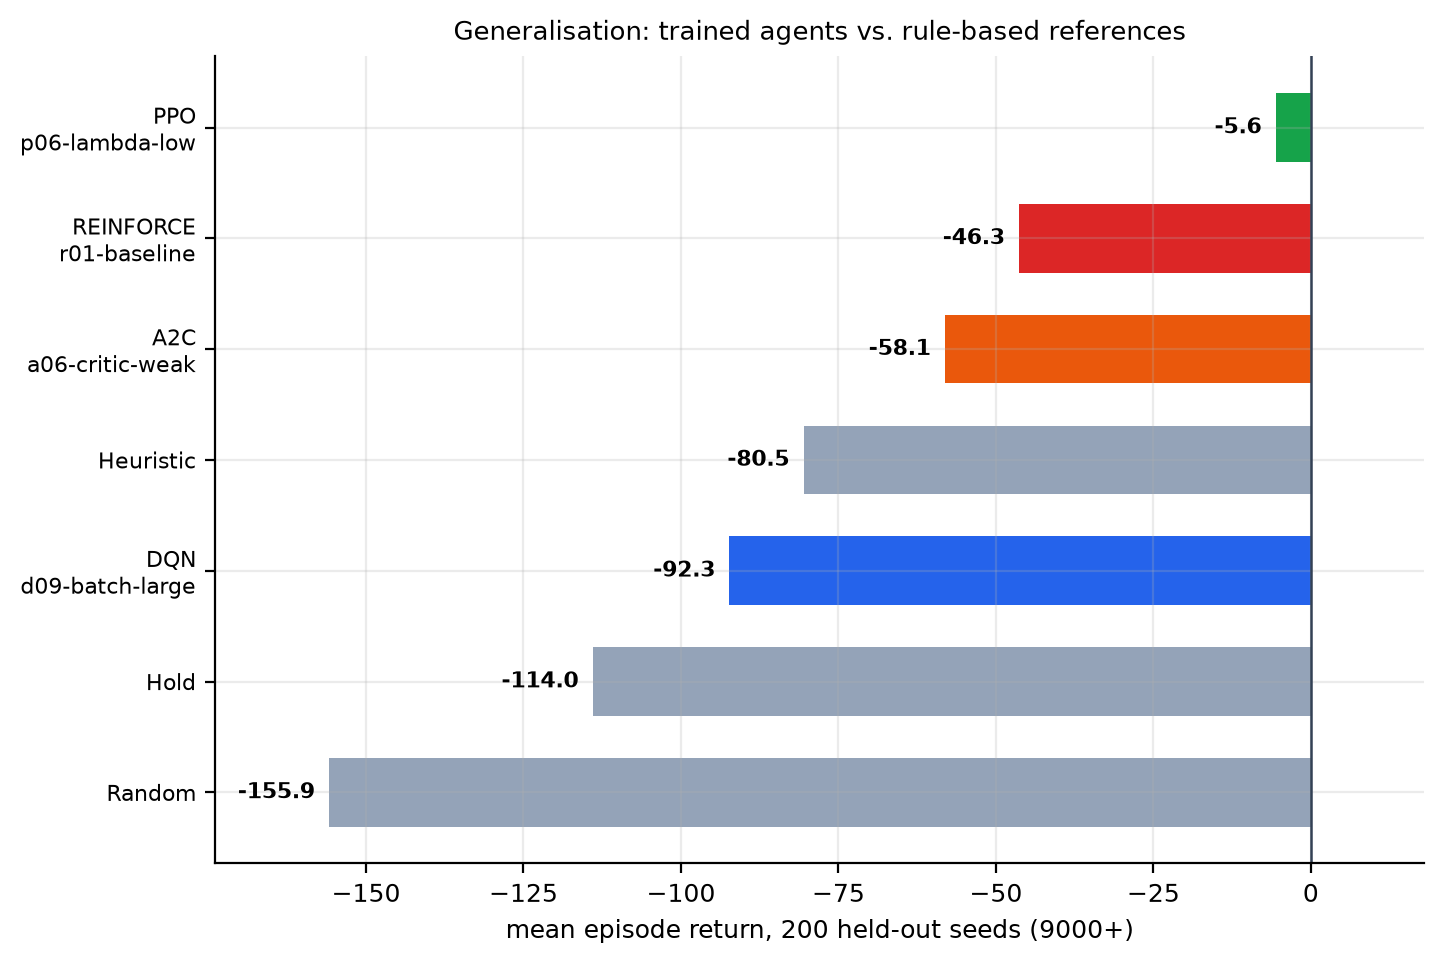
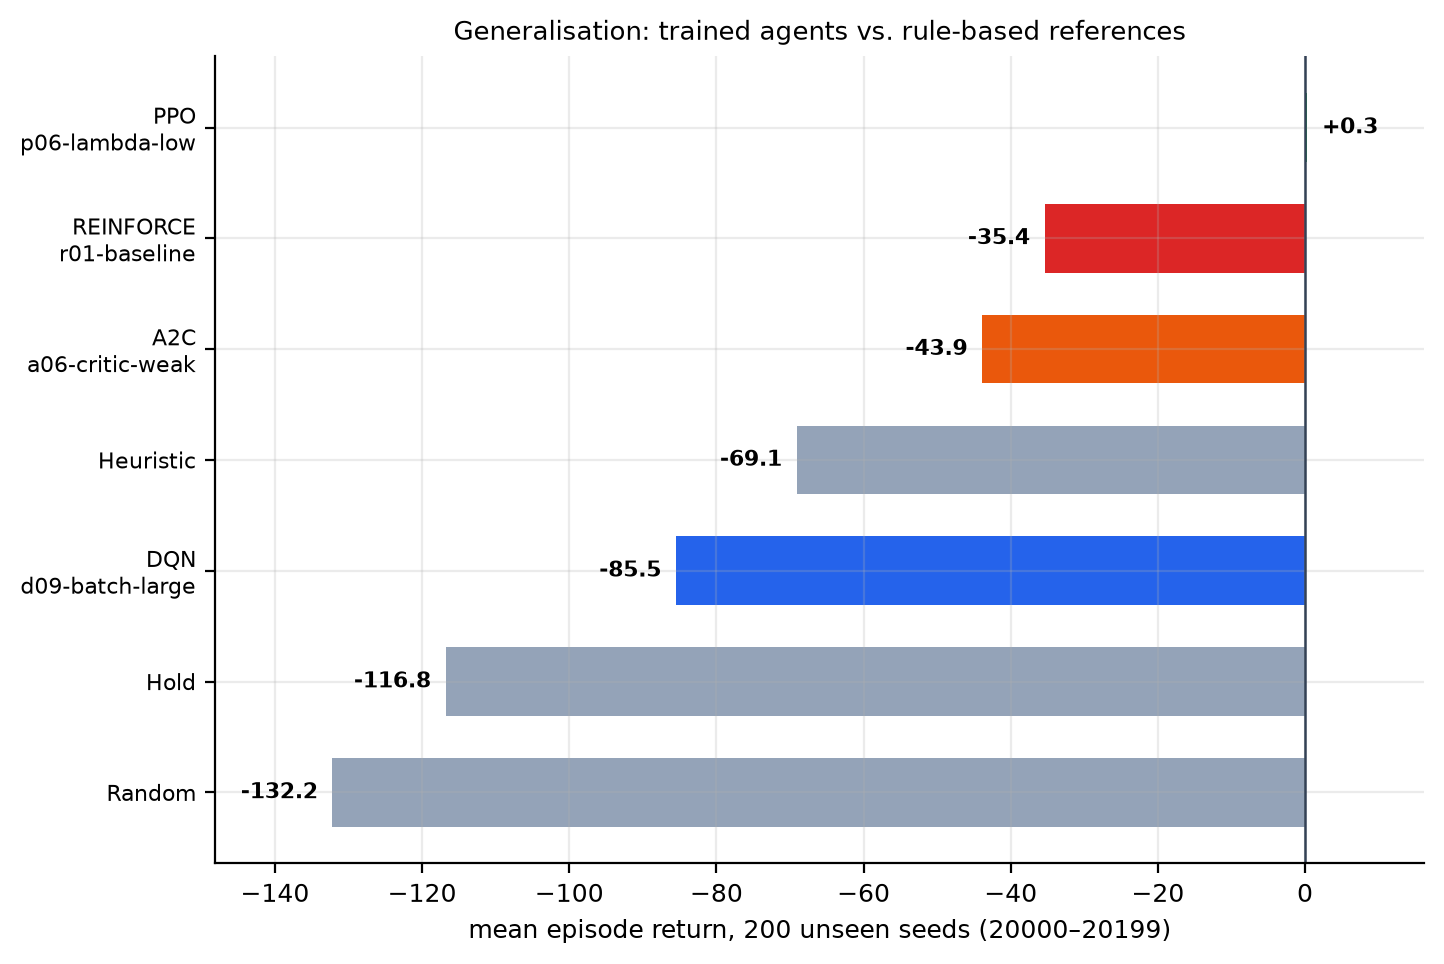
fix: evaluate on seeds disjoint from model selection

diff --git a/training/plots.py b/training/plots.py
@@ -305,9 +305,11 @@ def fig_generalisation() -> None:
     """
     final = load_final_evaluation()
     names, scores, colours, episodes = [], [], [], None
+    seed0 = None
 
     if final is not None and not final.empty:
         episodes = int(final["episodes"].iloc[0])
+        seed0 = int(final["seed_base"].iloc[0])
         tags = {a: best_tag(a) for a in ALGOS}
         for _, row in final.iterrows():
             key = str(row["policy"]).lower()
@@ -356,7 +358,8 @@ def fig_generalisation() -> None:
         )
 
     ax.axvline(0, color="#334155", lw=0.9)
-    seeds = f", {episodes} held-out seeds (9000+)" if episodes else ""
+    seeds = (f", {episodes} unseen seeds ({seed0}–{seed0 + episodes - 1})"
+             if episodes and seed0 is not None else "")
     ax.set_xlabel(f"mean episode return{seeds}")
     ax.set_title(
         "Generalisation: trained agents vs. rule-based references",

diff --git a/report/tables.md b/report/tables.md
@@ -7,27 +7,27 @@ Produced by `uv run python -m training.tables` from the CSVs in `logs/`. Do not 
 
 | Algorithm | Best configuration | Sweep score (40 ep) | Held-out score (200 ep) | vs `hold` |
 |---|---|---:|---:|---:|
-| DQN | `d09-batch-large` | -54.97 | -92.31 | +21.71 (t = +1.55) |
-| REINFORCE | `r01-baseline` | -13.76 | -46.34 | +67.68 (t = +5.47) |
-| PPO | `p06-lambda-low` | +27.39 | -5.58 | +108.44 (t = +7.85) |
-| A2C | `a06-critic-weak` | -30.36 | -58.10 | +55.92 (t = +5.08) |
+| DQN | `d09-batch-large` | -54.97 | -85.51 | +31.30 (t = +2.20) |
+| REINFORCE | `r01-baseline` | -13.76 | -35.40 | +81.41 (t = +6.83) |
+| PPO | `p06-lambda-low` | +27.39 | +0.33 | +117.14 (t = +9.69) |
+| A2C | `a06-critic-weak` | -30.36 | -43.89 | +72.92 (t = +6.69) |
 
 The two score columns differ because the sweep ranks configurations on 40 episodes while the held-out column re-scores the winner on 200. The gap is a measurement of evaluation noise, not a discrepancy: 40 episodes is enough to rank, not enough to report.
 
 
 ## Held-out evaluation
 
-All policies on the identical seed set 9000..9199 (n = 200).
+All policies on the identical seed set 20000..20199 (n = 200).
 
 | Policy | Mean return | Equity | Max DD | Stockouts | Fees $ | Revenue $ | Idle | vs `hold` (paired) | t |
 |---|---:|---:|---:|---:|---:|---:|---:|---:|---:|
-| PPO | -5.58 | +0.64% | 2.47% | 16.5 | 365 | 4,770 | 40% | +108.44 ± 13.81 | **+7.85** |
-| REINFORCE | -46.34 | -1.72% | 5.03% | 7.9 | 145 | 4,942 | 60% | +67.68 ± 12.38 | **+5.47** |
-| A2C | -58.10 | -2.30% | 5.80% | 7.2 | 160 | 4,804 | 38% | +55.92 ± 11.02 | **+5.08** |
-| Heuristic | -80.54 | -3.79% | 6.07% | 0.0 | 2,085 | 5,552 | 23% | +33.48 ± 12.27 | **+2.73** |
-| DQN | -92.31 | -3.48% | 5.80% | 17.9 | 715 | 4,096 | 11% | +21.71 ± 14.00 | +1.55 |
-| Hold | -114.02 | -4.23% | 7.44% | 22.3 | 0 | 4,632 | 100% | — | — |
-| Random | -155.87 | -7.40% | 8.68% | 0.1 | 1,177 | 2,265 | 8% | -41.85 ± 15.79 | **-2.65** |
+| PPO | +0.33 | +0.86% | 2.47% | 14.9 | 357 | 4,870 | 41% | +117.14 ± 12.09 | **+9.69** |
+| REINFORCE | -35.40 | -1.24% | 4.43% | 7.3 | 172 | 4,973 | 58% | +81.41 ± 11.92 | **+6.83** |
+| A2C | -43.89 | -1.74% | 4.92% | 5.8 | 153 | 5,008 | 44% | +72.92 ± 10.90 | **+6.69** |
+| Heuristic | -69.10 | -3.28% | 5.73% | 0.0 | 2,085 | 5,664 | 24% | +47.71 ± 12.33 | **+3.87** |
+| DQN | -85.51 | -3.16% | 5.56% | 18.3 | 722 | 4,112 | 10% | +31.30 ± 14.25 | **+2.20** |
+| Hold | -116.81 | -4.14% | 7.46% | 27.2 | 0 | 4,560 | 100% | — | — |
+| Random | -132.18 | -6.27% | 7.73% | 0.0 | 1,203 | 2,340 | 8% | -15.37 ± 14.94 | -1.03 |
 
 Paired because the FX path is common to every policy on a given seed and controllable by none of them; differencing removes it. Bold *t* exceeds |2|, the significance bar used throughout.
 

diff --git a/README.md b/README.md
@@ -74,13 +74,13 @@ classification.
 
 **A fixed rule leaves measurable value on the table.** The repository ships
 three reference policies so this is an empirical claim rather than an assertion.
-Over 200 held-out seeds, paired by seed:
+Over 200 held-out seeds (20000–20199, disjoint from training and model selection), paired by seed:
 
 | Policy | Mean return | vs. `hold` (paired) |
 |---|---|---|
-| `random` | −155.9 | −41.85 ± 15.79, t = −2.65 |
-| `hold` | −114.0 | — |
-| `heuristic` | −80.5 | **+33.48 ± 12.27, t = +2.73** |
+| `random` | −132.2 | −15.37 ± 14.94, t = −1.03 |
+| `hold` | −116.8 | — |
+| `heuristic` | −69.1 | **+47.71 ± 12.33, t = +3.87** |
 
 The comparison is paired because the dominant variance term — the FX path — is
 common to every policy on a given seed and controllable by none of them. The
@@ -93,15 +93,15 @@ the week with more equity than it started:
 
 | Policy | Mean return | Equity | Max drawdown | Fees $ | vs. `hold` (paired) |
 |---|---:|---:|---:|---:|---|
-| **PPO** `p06-lambda-low` | **−5.6** | **+0.64%** | **2.47%** | 365 | **+108.44 ± 13.81, t = +7.85** |
-| REINFORCE `r01-baseline` | −46.3 | −1.72% | 5.03% | 145 | +67.68 ± 12.38, t = +5.47 |
-| A2C `a06-critic-weak` | −58.1 | −2.30% | 5.80% | 160 | +55.92 ± 11.02, t = +5.08 |
-| `heuristic` | −80.5 | −3.79% | 6.07% | 2,085 | +33.48 ± 12.27, t = +2.73 |
-| DQN `d09-batch-large` | −92.3 | −3.48% | 5.80% | 715 | +21.71 ± 14.00, t = +1.55 (n.s.) |
+| **PPO** `p06-lambda-low` | **+0.3** | **+0.86%** | **2.47%** | 357 | **+117.14 ± 12.09, t = +9.69** |
+| REINFORCE `r01-baseline` | −35.4 | −1.24% | 4.43% | 172 | +81.41 ± 11.92, t = +6.83 |
+| A2C `a06-critic-weak` | −43.9 | −1.74% | 4.92% | 153 | +72.92 ± 10.90, t = +6.69 |
+| `heuristic` | −69.1 | −3.28% | 5.73% | 2,085 | +47.71 ± 12.33, t = +3.87 |
+| DQN `d09-batch-large` | −85.5 | −3.16% | 5.56% | 722 | +31.30 ± 14.25, t = +2.20 |
 
 The fee column is where the learned policies separate from the written one. The
-heuristic prevents every stockout and pays $2,085 to do it; PPO tolerates 16.5
-stockouts a week, pays $365, and finishes 75 points ahead. Nothing in the reward
+heuristic prevents every stockout and pays $2,085 to do it; PPO tolerates 14.9
+stockouts a week, pays $357, and finishes 69 points ahead. Nothing in the reward
 function names that trade-off — it is the trade-off the agent had to discover,
 and it is exactly what a desk risk manager is paid to judge. PPO also runs at
 **half the drawdown** of every other policy, so it wins on risk control rather
